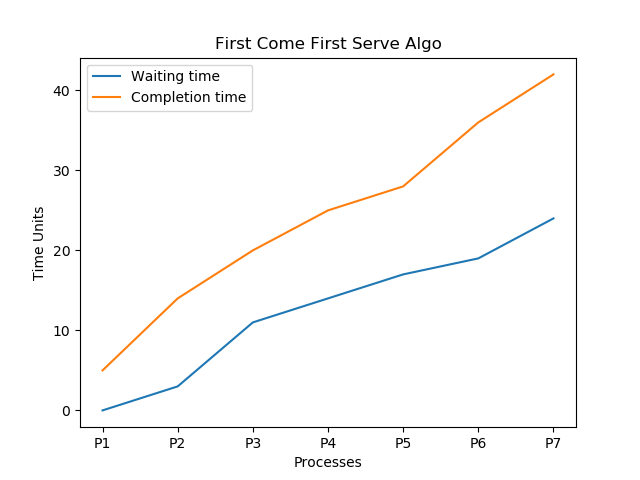
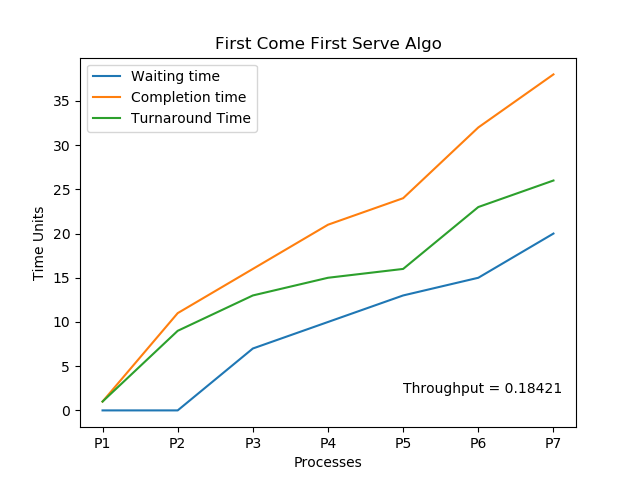
added round robin

diff --git a/src/FCFS.py b/src/FCFS.py
@@ -1,30 +1,32 @@
 import matplotlib.pyplot as plt
 
 ## Finds waiting time for each process
-def findWaitingTime(processes,  bt, waiting_time, at):  
+def findWaitingTime(processes,  burst_time, waiting_time, arrival_time):  
     service_time = [0] *len(processes) 
     service_time[0] = 0
     waiting_time[0] = 0
     for i in range(1, len(processes)):  
            
-        service_time[i] = (service_time[i - 1] +  bt[i - 1])  
+        service_time[i] = (service_time[i - 1] +  burst_time[i - 1])  
   
-        waiting_time[i] = service_time[i] - at[i]  
+        waiting_time[i] = service_time[i] - arrival_time[i]  
         if (waiting_time[i] < 0): 
             waiting_time[i] = 0
       
 
-def findTurnAroundTime(processes, bt, wt, turn_around_time):  
+#Finds Turn Around Time for All processes
+def findTurnAroundTime(processes, burst_time, waiting_time, turn_around_time):  
     for i in range(len(processes)): 
-        turn_around_time[i] = bt[i] + wt[i]  
+        turn_around_time[i] = burst_time[i] + waiting_time[i]  
   
   
+#Returns waiting,turn around, completion time for each process
+def findavgTime(processes,  burst_time, arrival_time):  
 
-def findavgTime(processes,  bt, at):  
     waiting_time = [0] *len(processes)
     turn_around_time = [0] *len(processes) 
-    findWaitingTime(processes,  bt, waiting_time, at)  
-    findTurnAroundTime(processes,  bt, waiting_time, turn_around_time)  
+    findWaitingTime(processes,  burst_time, waiting_time, arrival_time)  
+    findTurnAroundTime(processes,  burst_time, waiting_time, turn_around_time)  
   
     print("Processes   Burst Time   Arrival Time     Waiting",  
           "Time   Turn-Around Time  Completion Time \n") 
@@ -37,14 +39,14 @@ def findavgTime(processes,  bt, at):
         total_turn_around_time = total_turn_around_time + turn_around_time[i]  
         # Calculate completion time
 
-        compl_time[i] = turn_around_time[i] + at[i] 
-        print(" ", i + 1, "\t\t", bt[i], "\t\t", at[i],  
+        compl_time[i] = turn_around_time[i] + arrival_time[i] 
+        print(" ", i + 1, "\t\t", burst_time[i], "\t\t", arrival_time[i],  
               "\t\t", waiting_time[i], "\t\t ", turn_around_time[i], "\t\t ", compl_time[i])  
   
     print("Average waiting time = %.5f "%(total_wt /len(processes))) 
     print("\nAverage turn around time = ", total_turn_around_time / len(processes))  
     print('\nThroughput = ', len(processes)/ compl_time[len(processes)-1])
-
+    print('\nAverage Job elapsed time = ',total_turn_around_time/len(processes))
     return waiting_time , turn_around_time ,compl_time
 
 
@@ -65,18 +67,18 @@ def fcfs():
 
     #returned waiting time and turn around time
     waiting_time , turn_around_time, compl_time = findavgTime(processes,  burst_time, arrival_time)
-
     #plotting 
     plt.plot(processes,waiting_time,label = "Waiting time")
     plt.plot(processes,compl_time,label = "Completion time")
+    plt.plot(processes,turn_around_time,label = "Turnaround Time")
+    plt.text(4,2,'Throughput = %.5f'  % (len(processes)/ compl_time[len(processes)-1]))
     plt.title("First Come First Serve Algo")
     plt.xlabel("Processes")
     plt.ylabel("Time Units")
     plt.legend()
     plt.savefig('./output/FCFS_output.png')
     plt.show()
-
-
+    input()
 
 if __name__ =="__main__": 
     fcfs()

diff --git a/src/ROUND_ROBIN.py b/src/ROUND_ROBIN.py
@@ -1,0 +1,98 @@
+import matplotlib.pyplot as plt
+
+
+def findWaitingTime(processes, n, bt,  
+                         wt, quantum):  
+    rem_bt = [0] * n 
+
+    for i in range(n):  
+        rem_bt[i] = bt[i] 
+    t = 0
+    while(1): 
+        done = True
+        for i in range(n): 
+            if (rem_bt[i] > 0) : 
+                done = False 
+                  
+                if (rem_bt[i] > quantum) : 
+                    t += quantum  
+                    rem_bt[i] -= quantum  
+                else: 
+                    t = t + rem_bt[i]  
+                    wt[i] = t - bt[i]  
+                    rem_bt[i] = 0
+        if (done == True): 
+            break
+              
+
+def findTurnAroundTime(processes, n, bt, wt, tat): 
+    for i in range(n): 
+        tat[i] = bt[i] + wt[i]  
+  
+  
+
+def findavgTime(processes, n, bt,arrival_time, quantum):  
+    wt = [0] * n 
+    tat = [0] * n  
+    compl_time = [0]*len(processes)
+
+    findWaitingTime(processes, n, bt,  wt, quantum)  
+
+    findTurnAroundTime(processes, n, bt, wt, tat)  
+  
+    print("Processes    Burst Time     Waiting",  "Time    Turn-Around Time    Completion Time") 
+    total_wt = 0
+    total_tat = 0
+    for i in range(n): 
+  
+        total_wt = total_wt + wt[i]  
+        total_tat = total_tat + tat[i]  
+        compl_time[i] = arrival_time[i] + tat[i]
+        print(" ", processes[i] , "\t\t", bt[i], "\t\t", wt[i], "\t\t", tat[i],"\t\t",compl_time[i]) 
+  
+    print("\nAverage waiting time = %.5f "%(total_wt /n) ) 
+    print("Average turn around time = %.5f "% (total_tat / n))  
+    print('Throughput = ', len(processes)/ compl_time[len(processes)-1])
+    print('Average Job elapsed time = ',total_tat/len(processes))
+    return wt, tat ,compl_time
+      
+
+def plot_graph_normal(processes,waiting_time,compl_time,turn_around_time):
+    
+    plt.plot(processes,waiting_time,label = "Waiting time")
+    plt.plot(processes,compl_time,label = "Completion time")
+    plt.plot(processes,turn_around_time,label = "Turnaround Time")
+    plt.text(4,4,'Throughput = %.5f'  % (len(processes)/ compl_time[len(processes)-1]))
+    plt.title("Round Robin Algo")
+    plt.xlabel("Processes")
+    plt.ylabel("Time Units")
+    plt.legend()
+    plt.savefig('./output/ROUND_ROBIN_output.png')
+    plt.show()
+
+
+def round_robin():
+    processes = []
+    burst_time = []
+    arrival_time = []
+    #breakpoint
+    with open('./inputs/ROUND_ROBIN.txt','r') as  f:
+        f.readline()
+        for line in f.readlines():
+            process , burst , arrival = (line.split(" "))
+            processes.append(process)
+            burst_time.append(int(burst))
+            arrival_time.append(int(arrival))
+
+
+    # Time quantum  
+    quantum = 6;  
+    waiting_time,turn_around_time,compl_time =  findavgTime(processes, len(processes), burst_time, arrival_time, quantum) 
+    plot_graph_normal(processes,waiting_time,compl_time,turn_around_time)
+    input()
+
+# Driver code  
+if __name__ =="__main__": 
+      round_robin()
+
+  

diff --git a/main.py b/main.py
@@ -22,7 +22,7 @@ def choose(choice):
     elif choice == 5:
         src.priority_np()
     elif choice == 6:
-        pass
+        src.round_robin()
     elif choice == 7:
         pass
     else:
@@ -51,6 +51,5 @@ def main():
             input("\n press any button to continue.....")
             continue
         os.system(clear)
-        
 if __name__ == "__main__":
     main()

diff --git a/src/__init__.py b/src/__init__.py
@@ -1,3 +1,4 @@
 from .FCFS import fcfs
 from .PRIORITY_NP import priority_np
 from .PRIORITY_P import priority_p
+from .ROUND_ROBIN import round_robin

diff --git a/Notes.md b/Notes.md
@@ -2,10 +2,12 @@
 
 ## Common
 
-ALGOS: 
-    KASHISH - FCFS & round robin
-    Dipesh - sjf
-    RANA - priority
+### ALGOS: 
+ - KASHISH - FCFS & round robin
+ - Dipesh - sjf
+ - RANA - priority
+
+
 
 ## For Dipesh
 
@@ -15,8 +17,8 @@ ALGOS:
 
 ## For Rana
 
-1. Har baar kaam start krne se pehle [ranaset.bat] file pe double click krna . fir kaam start krna
-2. Jab kam save krna ho to [ranasave.bat] file pe double click krna aur fir ye comment puchega kuch bhi likh dena ki kya change kiya
+1. Har baar kaam start krne se pehle [ranaset.sh] file pe double click krna . fir kaam start krna
+2. Jab kam save krna ho to [ranasave.sh] file pe double click krna aur fir ye comment puchega kuch bhi likh dena ki kya change kiya
     eg. Enter comment: "added input files"eg. Enter comment: "added input files"
 
 
